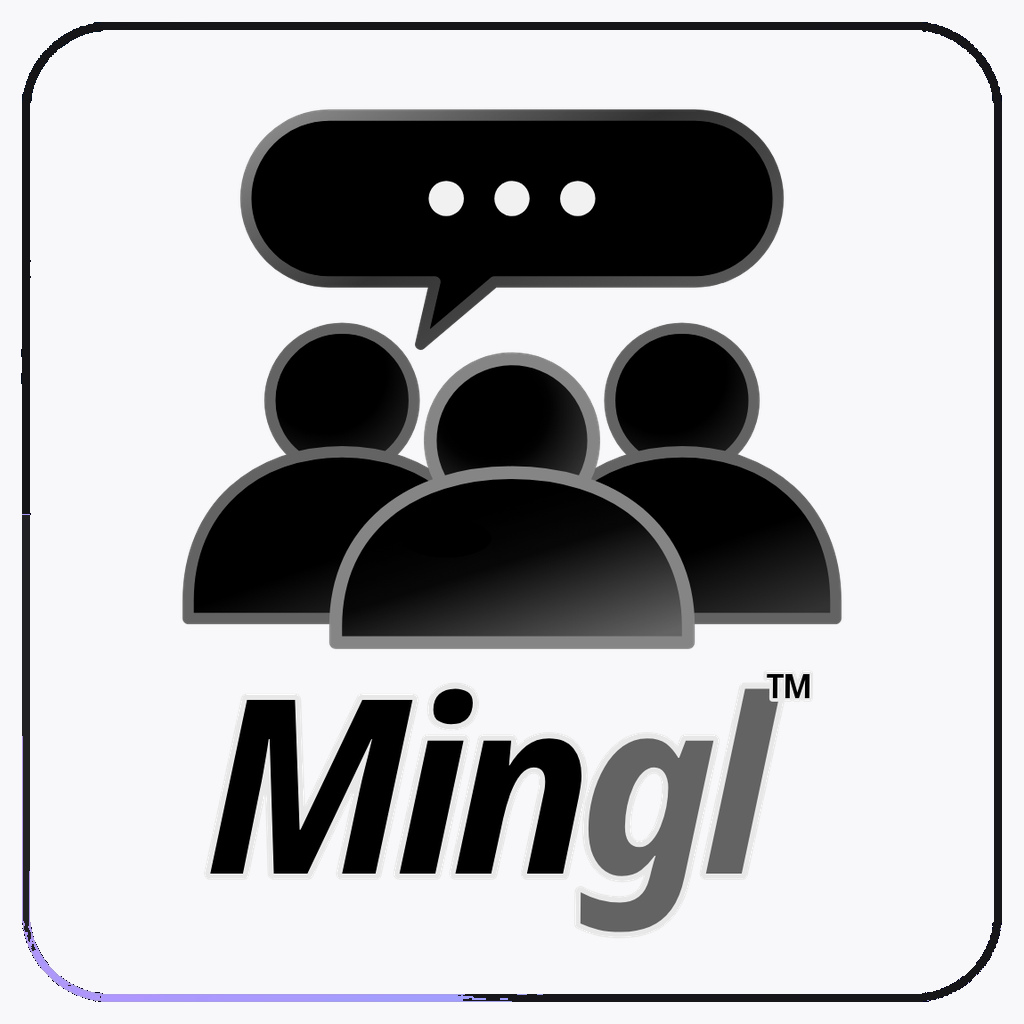
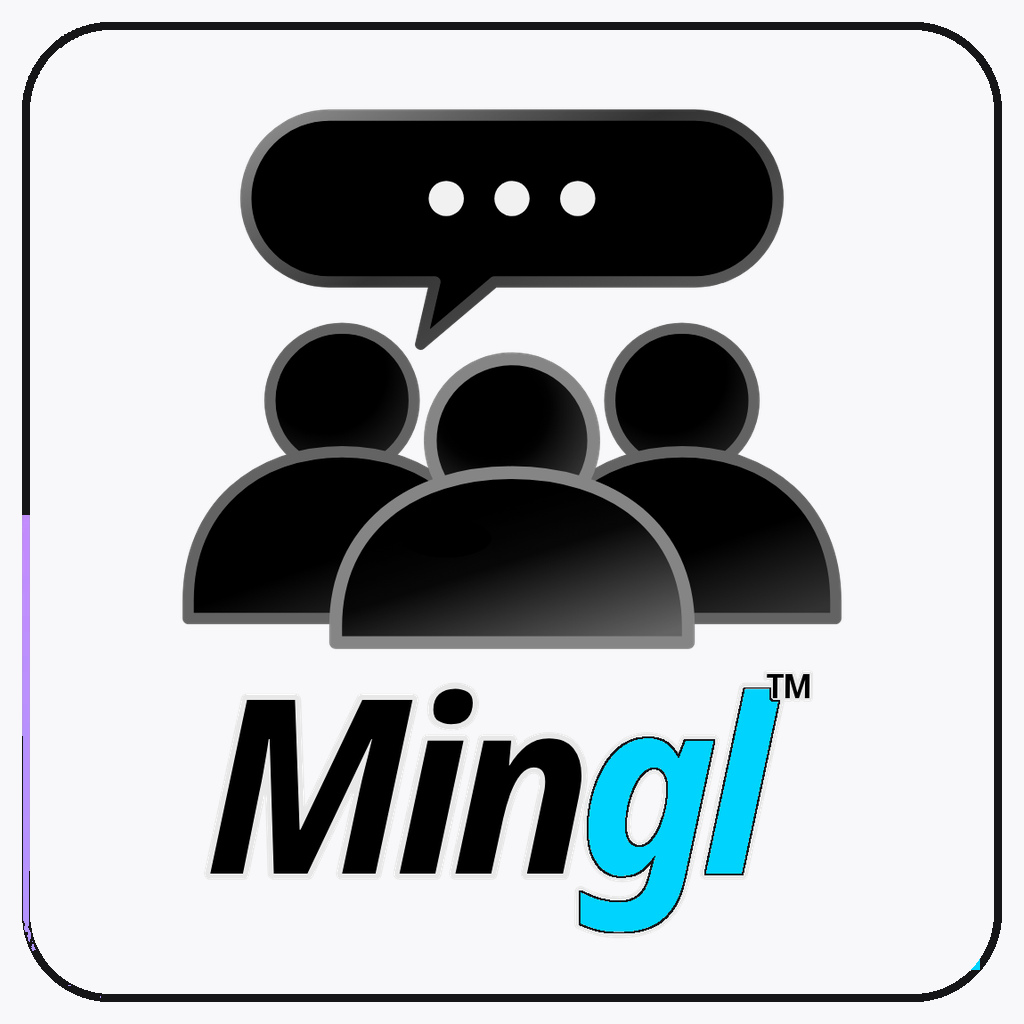
Fix White/Black Si-nema S cutoff and hanging filmstrip
Paint a solid dilated Si- core so the italic S holds at Search size, keep Tiffany nema, and clip hanging sprocket tongues with navy interiors instead of a white bite. Mingl White/Black keeps Tiffany gl on the wordmark only.

Changed region(s): [[0.5625, 0.6562, 0.7812, 0.9375], [0.0, 0.5, 0.4688, 1.0]]

diff --git a/icon-review-wb-tiffany-draft.html b/icon-review-wb-tiffany-draft.html
@@ -1,0 +1,51 @@
+<!doctype html>
+<html lang="en" data-floqr-chrome="whiteBlack" data-floqr-theme-ungated="1">
+<head>
+  <meta charset="utf-8"/>
+  <meta name="viewport" content="width=device-width,initial-scale=1"/>
+  <title>White/Black Tiffany wordmarks — draft</title>
+  <link rel="stylesheet" href="./styles.css?v=s3.3.042"/>
+  <style>
+    html,body{margin:0;background:#f3f3f5;color:#111;min-height:100%}
+    body{padding:24px 18px 48px;font-family:var(--floqr-font,system-ui)}
+    h1{font-size:1.35rem;margin:0 0 8px}
+    p{margin:0 0 18px;color:#444;max-width:720px}
+    h2{font-size:1rem;margin:28px 0 12px}
+    .row{display:flex;flex-wrap:wrap;gap:18px;align-items:flex-end}
+    .pair{display:grid;gap:8px;justify-items:center}
+    .pair span{font-size:12px;font-weight:700;letter-spacing:.04em;text-transform:uppercase;color:#666}
+    .pair img{width:220px;height:220px;object-fit:contain;border-radius:18px;background:#fff;box-shadow:0 8px 24px rgba(0,0,0,.12)}
+    .search-icon-row{justify-content:center;flex-wrap:wrap;background:#fff;padding:22px 16px;border-radius:24px;box-shadow:0 10px 30px rgba(0,0,0,.08)}
+  </style>
+</head>
+<body>
+  <h1>White/Black draft — Tiffany on gl / nema</h1>
+  <p>Live Search lost Tiffany because White/Black inverted the whole tile (teal became grey/black). This draft keeps the FloqCAST / BOT DEE split: ink + Tiffany. Si-nema: complete italic <b>S</b> (solid fill) and a tightened filmstrip (hanging sprocket tongues clipped, interiors navy — no white bite).</p>
+
+  <h2>Search row (White/Black)</h2>
+  <div class="search-icon-row">
+    <span class="shoutout-icon-card"><span class="floqcast-icon-face chrome-photo-face"><img src="./images/chrome/floqcast-whiteblack.jpg" alt="" class="floqcast-tile-mark" width="96" height="96"/></span></span>
+    <span class="shoutout-icon-card"><span class="botdee-icon-face chrome-photo-face"><img src="./images/chrome/botdee-whiteblack.jpg" alt="" class="botdee-tile-mark" width="96" height="96"/></span></span>
+    <span class="shoutout-icon-card"><span class="vip-icon-face chrome-photo-face"><img src="./images/chrome/vip-whiteblack.jpg" alt="" class="vip-tile-mark" width="96" height="96"/></span></span>
+    <span class="shoutout-icon-card"><span class="sinema-icon-face chrome-photo-face"><img src="./images/chrome/sinema-whiteblack.jpg" alt="" class="sinema-tile-mark" width="96" height="96"/></span></span>
+    <span class="shoutout-icon-card"><span class="mingl-icon-face chrome-photo-face"><img src="./images/chrome/mingl-whiteblack.jpg" alt="" class="mingl-tile-mark" width="96" height="96"/></span></span>
+  </div>
+
+  <h2>Mingl — live vs draft</h2>
+  <div class="row">
+    <div class="pair"><span>Live (inverted gl)</span><img src="./images/review/mingl-whiteblack-before.jpg" alt="Mingl White/Black before"/></div>
+    <div class="pair"><span>Draft (Tiffany gl)</span><img src="./images/chrome/mingl-whiteblack.jpg" alt="Mingl White/Black draft"/></div>
+  </div>
+
+  <h2>Si-nema — live vs draft</h2>
+  <div class="row">
+    <div class="pair"><span>Live (soft invert)</span><img src="./images/review/sinema-whiteblack-before.jpg" alt="Si-nema White/Black before"/></div>
+    <div class="pair"><span>Draft (full S + tight film)</span><img src="./images/chrome/sinema-whiteblack.jpg" alt="Si-nema White/Black draft"/></div>
+  </div>
+
+  <h2>Si-nema draft at share-sheet size</h2>
+  <div class="row">
+    <div class="pair"><span>360px</span><img src="./images/chrome/sinema-whiteblack.jpg" alt="Si-nema White/Black 360" style="width:360px;height:360px"/></div>
+  </div>
+</body>
+</html>

diff --git a/scripts/build-sinema-chrome-icons.py b/scripts/build-sinema-chrome-icons.py
@@ -12,7 +12,7 @@ from __future__ import annotations
 from pathlib import Path
 
 import numpy as np
-from PIL import Image
+from PIL import Image, ImageDraw, ImageFilter
 
 ROOT = Path(__file__).resolve().parents[1]
 OUT = ROOT / "images/chrome"
@@ -84,6 +84,171 @@ def save_jpg(arr: np.ndarray, path: Path) -> None:
     print(f"  wrote {path.name}")
 
 
+def morph(mask: np.ndarray, *, open_k: int = 0, close_k: int = 0) -> np.ndarray:
+    img = Image.fromarray((mask.astype(np.uint8) * 255), "L")
+    if open_k:
+        img = img.filter(ImageFilter.MinFilter(open_k)).filter(ImageFilter.MaxFilter(open_k))
+    if close_k:
+        img = img.filter(ImageFilter.MaxFilter(close_k)).filter(ImageFilter.MinFilter(close_k))
+    return np.array(img) > 127
+
+
+def dilate(mask: np.ndarray, k: int = 5) -> np.ndarray:
+    k = max(3, k | 1)
+    return (
+        np.array(
+            Image.fromarray((mask.astype(np.uint8) * 255), "L").filter(ImageFilter.MaxFilter(k))
+        )
+        > 127
+    )
+
+
+def connected_border_field(black: np.ndarray) -> np.ndarray:
+    """Outer black around the clapper — never seed inside the hanging filmstrip."""
+    canvas = np.zeros((S, S, 3), dtype=np.uint8)
+    canvas[black] = (255, 255, 255)
+    img = Image.fromarray(canvas, "RGB")
+    seeds = []
+    # Above the clapper.
+    for x in range(80, S - 80, 16):
+        seeds.append((x, 88))
+        seeds.append((x, 758))  # gap between filmstrip and wordmark
+        seeds.append((x, 980))
+    # Sides — stop above the filmstrip (film starts ~y 600).
+    for y in range(88, 560, 16):
+        seeds.append((80, y))
+        seeds.append((S - 80, y))
+    for pt in seeds:
+        if img.getpixel(pt)[0] > 200:
+            ImageDraw.floodfill(img, pt, (255, 0, 0), thresh=8)
+    out = np.array(img)
+    return (out[..., 0] > 200) & (out[..., 1] < 40)
+
+
+def grow_field_into_glow(
+    field: np.ndarray, lum: np.ndarray, protect: np.ndarray
+) -> np.ndarray:
+    """Eat only the soft halo. Do not nibble film rails or letter ink."""
+    grown = field.copy()
+    for _ in range(4):
+        dil = np.array(
+            Image.fromarray((grown.astype(np.uint8) * 255), "L").filter(ImageFilter.MaxFilter(3))
+        ) > 127
+        extra = dil & ~grown & ~protect & (lum < 36)
+        if not extra.any():
+            break
+        grown |= extra
+    return grown
+
+
+def film_bottom_cut(xx: np.ndarray) -> np.ndarray:
+    """Clip dangling sprocket cells; slightly higher at the far left/right."""
+    t = np.clip(np.abs((xx - 500.0) / 360.0), 0.0, 1.0)
+    return 712.0 * (1.0 - t * t) + 700.0 * (t * t)
+
+
+def tighten_hanging_film(clapper: np.ndarray) -> tuple[np.ndarray, np.ndarray]:
+    """Clip tongues; fill punched interiors in the bottom sprocket band only."""
+    yy = np.arange(S, dtype=np.float32)[:, None]
+    xx = np.arange(S, dtype=np.float32)[None, :]
+    y_cut = film_bottom_cut(xx)
+    film_band = (yy >= 640) & (yy < 790)
+    kept = np.where(film_band, clapper & (yy <= y_cut), clapper)
+    holes = np.zeros_like(clapper)
+    for x in range(110, 930):
+        if not kept[640:760, x].any():
+            continue
+        yc = int(round(float(y_cut[0, x])))
+        band = slice(yc - 38, yc + 1)
+        holes[band, x] = ~kept[band, x]
+        kept[band, x] = True
+    return kept, holes
+
+
+def keep_connected_to(mask: np.ndarray, seed: tuple[int, int]) -> np.ndarray:
+    """Drop isolated glow islands; keep the clapper + filmstrip."""
+    canvas = np.zeros((S, S, 3), dtype=np.uint8)
+    canvas[mask] = (255, 255, 255)
+    img = Image.fromarray(canvas, "RGB")
+    if img.getpixel(seed)[0] < 200:
+        return mask
+    ImageDraw.floodfill(img, seed, (255, 0, 0), thresh=8)
+    out = np.array(img)
+    return (out[..., 0] > 200) & (out[..., 1] < 40)
+
+
+def paint_solid_letters(
+    out: np.ndarray,
+    src: np.ndarray,
+    word: np.ndarray,
+    field_rgb: np.ndarray,
+    ink: np.ndarray,
+) -> np.ndarray:
+    """Solid **Si-** ink + Tiffany **nema**. Dilate cores so Search-size S keeps its bowl."""
+    lum = src.max(axis=-1)
+    cyan = is_cyan(src)
+    white_core = word & (lum > 80) & ~cyan
+    cyan_core = word & cyan
+    # 11×11 dilate (~5 px) keeps the italic S bowl at Search / share-sheet size.
+    si = dilate(white_core, 11) & word
+    nema = dilate(cyan_core, 9) & word
+    si &= ~nema
+    out[si] = ink
+    out[nema] = TIFFANY
+    return out
+
+
+def build_whiteblack(src: np.ndarray, rim_src: Path | None = None) -> np.ndarray:
+    """White field, black **Si-**, Tiffany **nema**, sharp clapper (no glow halo)."""
+    field_rgb = np.array([248, 248, 250], dtype=np.float32)
+    ink = np.array([16, 16, 18], dtype=np.float32)
+    yy = np.arange(S)[:, None]
+    xx = np.arange(S)[None, :]
+    rim = (yy < 54) | (yy > S - 54) | (xx < 54) | (xx > S - 54)
+    word = (yy > 790) & (yy < S - 54) & (xx > 70) & (xx < 980)
+    film = (yy >= 560) & (yy < 790) & (xx > 90) & (xx < 960)
+
+    lum = src.max(axis=-1)
+    black = is_near_black(src, 34)
+    field = connected_border_field(black)
+    # Never grow into the filmstrip — that ate the hanging bottom rail.
+    field = grow_field_into_glow(field, lum, word | film)
+    clapper = ~field & (yy < 790) & ~rim
+    clapper = morph(clapper, open_k=0, close_k=3)
+    clapper = keep_connected_to(clapper, (512, 470))
+    # Re-attach hanging film pixels the flood may still have dropped.
+    # Closed silhouette so sprocket interiors stay official-dark, not punched white.
+    cyan = is_cyan(src)
+    film_sil = film & ~rim & ((lum > 32) | cyan)
+    film_sil = morph(film_sil, open_k=0, close_k=11)
+    clapper |= film_sil
+    clapper, holes = tighten_hanging_film(clapper)
+
+    out = np.broadcast_to(field_rgb, src.shape).copy()
+    sharp = np.array(
+        Image.fromarray(np.clip(src, 0, 255).astype(np.uint8), "RGB").filter(
+            ImageFilter.UnsharpMask(radius=1.4, percent=140, threshold=2)
+        ),
+        dtype=np.float32,
+    )
+    out[clapper] = sharp[clapper]
+    # Punched sprocket interiors → navy so WB doesn't show a white bite.
+    if holes.any():
+        out[holes] = np.array([8, 22, 28], dtype=np.float32)
+
+    sat_rim = rim & (chroma(src) > 38) & (lum > 40)
+    out[sat_rim] = np.array([22, 22, 24], dtype=np.float32)
+    mag = is_magenta(src) & rim
+    if mag.any():
+        out[mag] = src[mag]
+
+    out = paint_solid_letters(out, src, word, field_rgb, ink)
+    stray = (yy > 900) & (xx > 900) & is_cyan(out)
+    if stray.any():
+        out[stray] = field_rgb
+    return out
+
+
 def main() -> None:
     OUT.mkdir(parents=True, exist_ok=True)
     official = load_official()
@@ -111,14 +276,7 @@ def main() -> None:
     DARK = (46, 138, 90)
     save_jpg(recolor(official, mag=DARK, cyan=TINGS), OUT / "sinema-blackdarkgreen.jpg")
 
-    wb = recolor(
-        official,
-        mag=(40, 40, 44),
-        cyan=(28, 28, 32),
-        black=(246, 246, 248),
-        white=(16, 16, 18),
-    )
-    save_jpg(wb, OUT / "sinema-whiteblack.jpg")
+    save_jpg(build_whiteblack(official, OUT / "sinema-whiteblack.jpg"), OUT / "sinema-whiteblack.jpg")
 
 
 if __name__ == "__main__":

diff --git a/scripts/build-mingl-v3-logo.py b/scripts/build-mingl-v3-logo.py
@@ -24,7 +24,7 @@ import tempfile
 from pathlib import Path
 
 import numpy as np
-from PIL import Image, ImageDraw
+from PIL import Image, ImageDraw, ImageFilter
 from fontTools.misc.transform import Transform
 from fontTools.pens.svgPathPen import SVGPathPen
 from fontTools.pens.transformPen import TransformPen
@@ -402,13 +402,41 @@ def recolor(src: np.ndarray, *, mag, cyan, black=None) -> np.ndarray:
     return out
 
 
+def _dilate_bool(mask: np.ndarray, k: int = 3) -> np.ndarray:
+    img = Image.fromarray((mask.astype(np.uint8) * 255), "L")
+    return np.array(img.filter(ImageFilter.MaxFilter(k))) > 127
+
+
 def invert_mark(mark: Image.Image) -> Image.Image:
-    """Luma-invert RGB, keep alpha — White/Black chrome on a light field."""
+    """White/Black: invert people / Min to ink, keep teal **gl** as Tiffany.
+
+    A full luma invert turns teal into grey, which is why live WB Mingl lost
+    the same Tiffany split FloqCAST / BOT DEE keep.
+    """
     arr = np.array(mark).astype(np.float32)
     rgb, a = arr[..., :3], arr[..., 3]
-    y = 0.299 * rgb[..., 0] + 0.587 * rgb[..., 1] + 0.114 * rgb[..., 2]
+    r, g, bch = rgb[..., 0], rgb[..., 1], rgb[..., 2]
+    y = 0.299 * r + 0.587 * g + 0.114 * bch
+    # Wordmark band only — people teal trim must invert, not become Tiffany blobs.
+    yy = np.arange(arr.shape[0], dtype=np.int32)[:, None]
+    word = yy > int(arr.shape[0] * 0.68)
+    cyan = (
+        word
+        & (bch > 130)
+        & (g > 118)
+        & (r < 165)
+        & (bch > r + 16)
+        & (g > r + 6)
+        & (a > 36)
+    )
     inv = np.clip((255.0 - y - 8.0) * 1.06, 0, 255)
-    return Image.fromarray(np.dstack([inv, inv, inv, a]).astype(np.uint8), "RGBA")
+    out_rgb = np.stack([inv, inv, inv], axis=-1)
+    tiff = np.array(TIFFANY, dtype=np.float32)
+    out_rgb[cyan] = tiff
+    # Keep the dark outline on **gl** (inverted stroke would halo Tiffany).
+    ink = (y < 78) & (a > 70) & _dilate_bool(cyan, 5) & ~cyan
+    out_rgb[ink] = np.array([22, 24, 28], dtype=np.float32)
+    return Image.fromarray(np.dstack([out_rgb, a]).astype(np.uint8), "RGBA")
 
 
 def save_jpg(arr: np.ndarray, path: Path) -> None:
@@ -422,7 +450,7 @@ def save_jpg(arr: np.ndarray, path: Path) -> None:
 
 def write_chrome_packs(mark: Image.Image) -> None:
     """Brand accents stay white/teal/purple on dark chromes. Only the tile field + rim change.
-    White/Black inverts the mark so it reads on a light field."""
+    White/Black inverts people / Min and keeps **gl** Tiffany."""
     nightlife = composite_on_field(mark, (0, 0, 0), CHROME / "sinema-nightlife.jpg")
     save_jpg(nightlife, CHROME / "mingl-nightlife.jpg")
     save_jpg(
